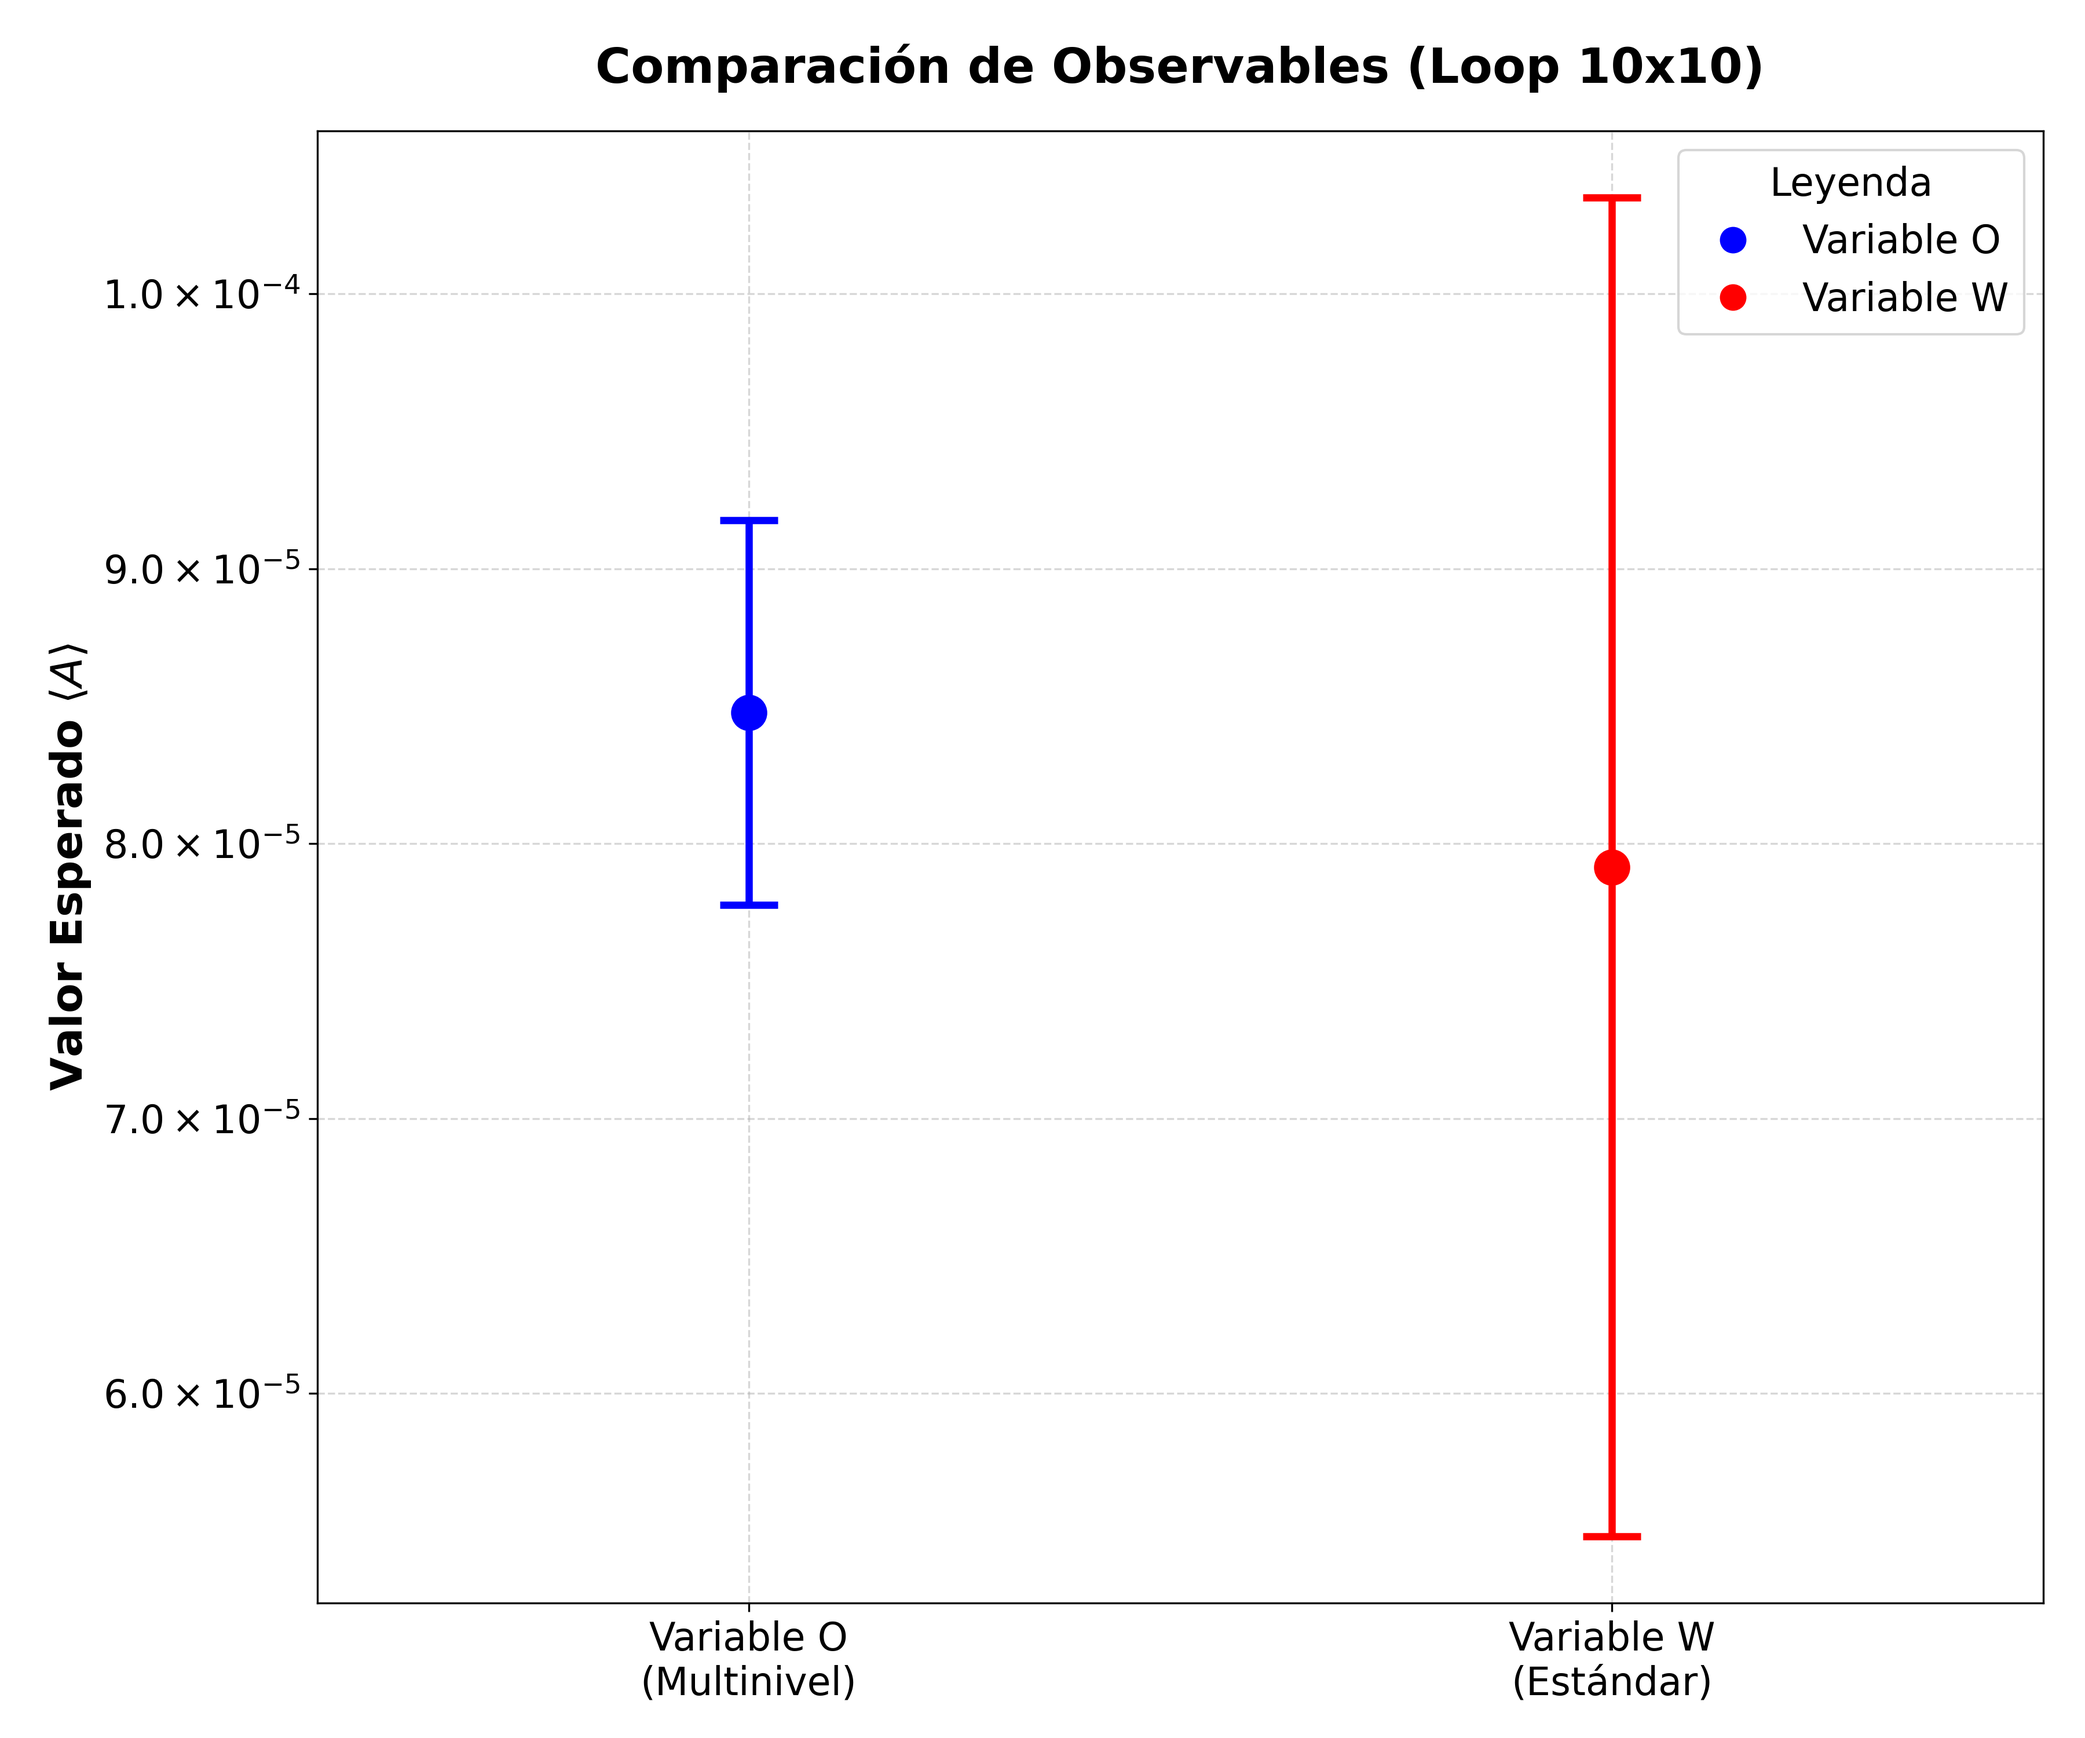
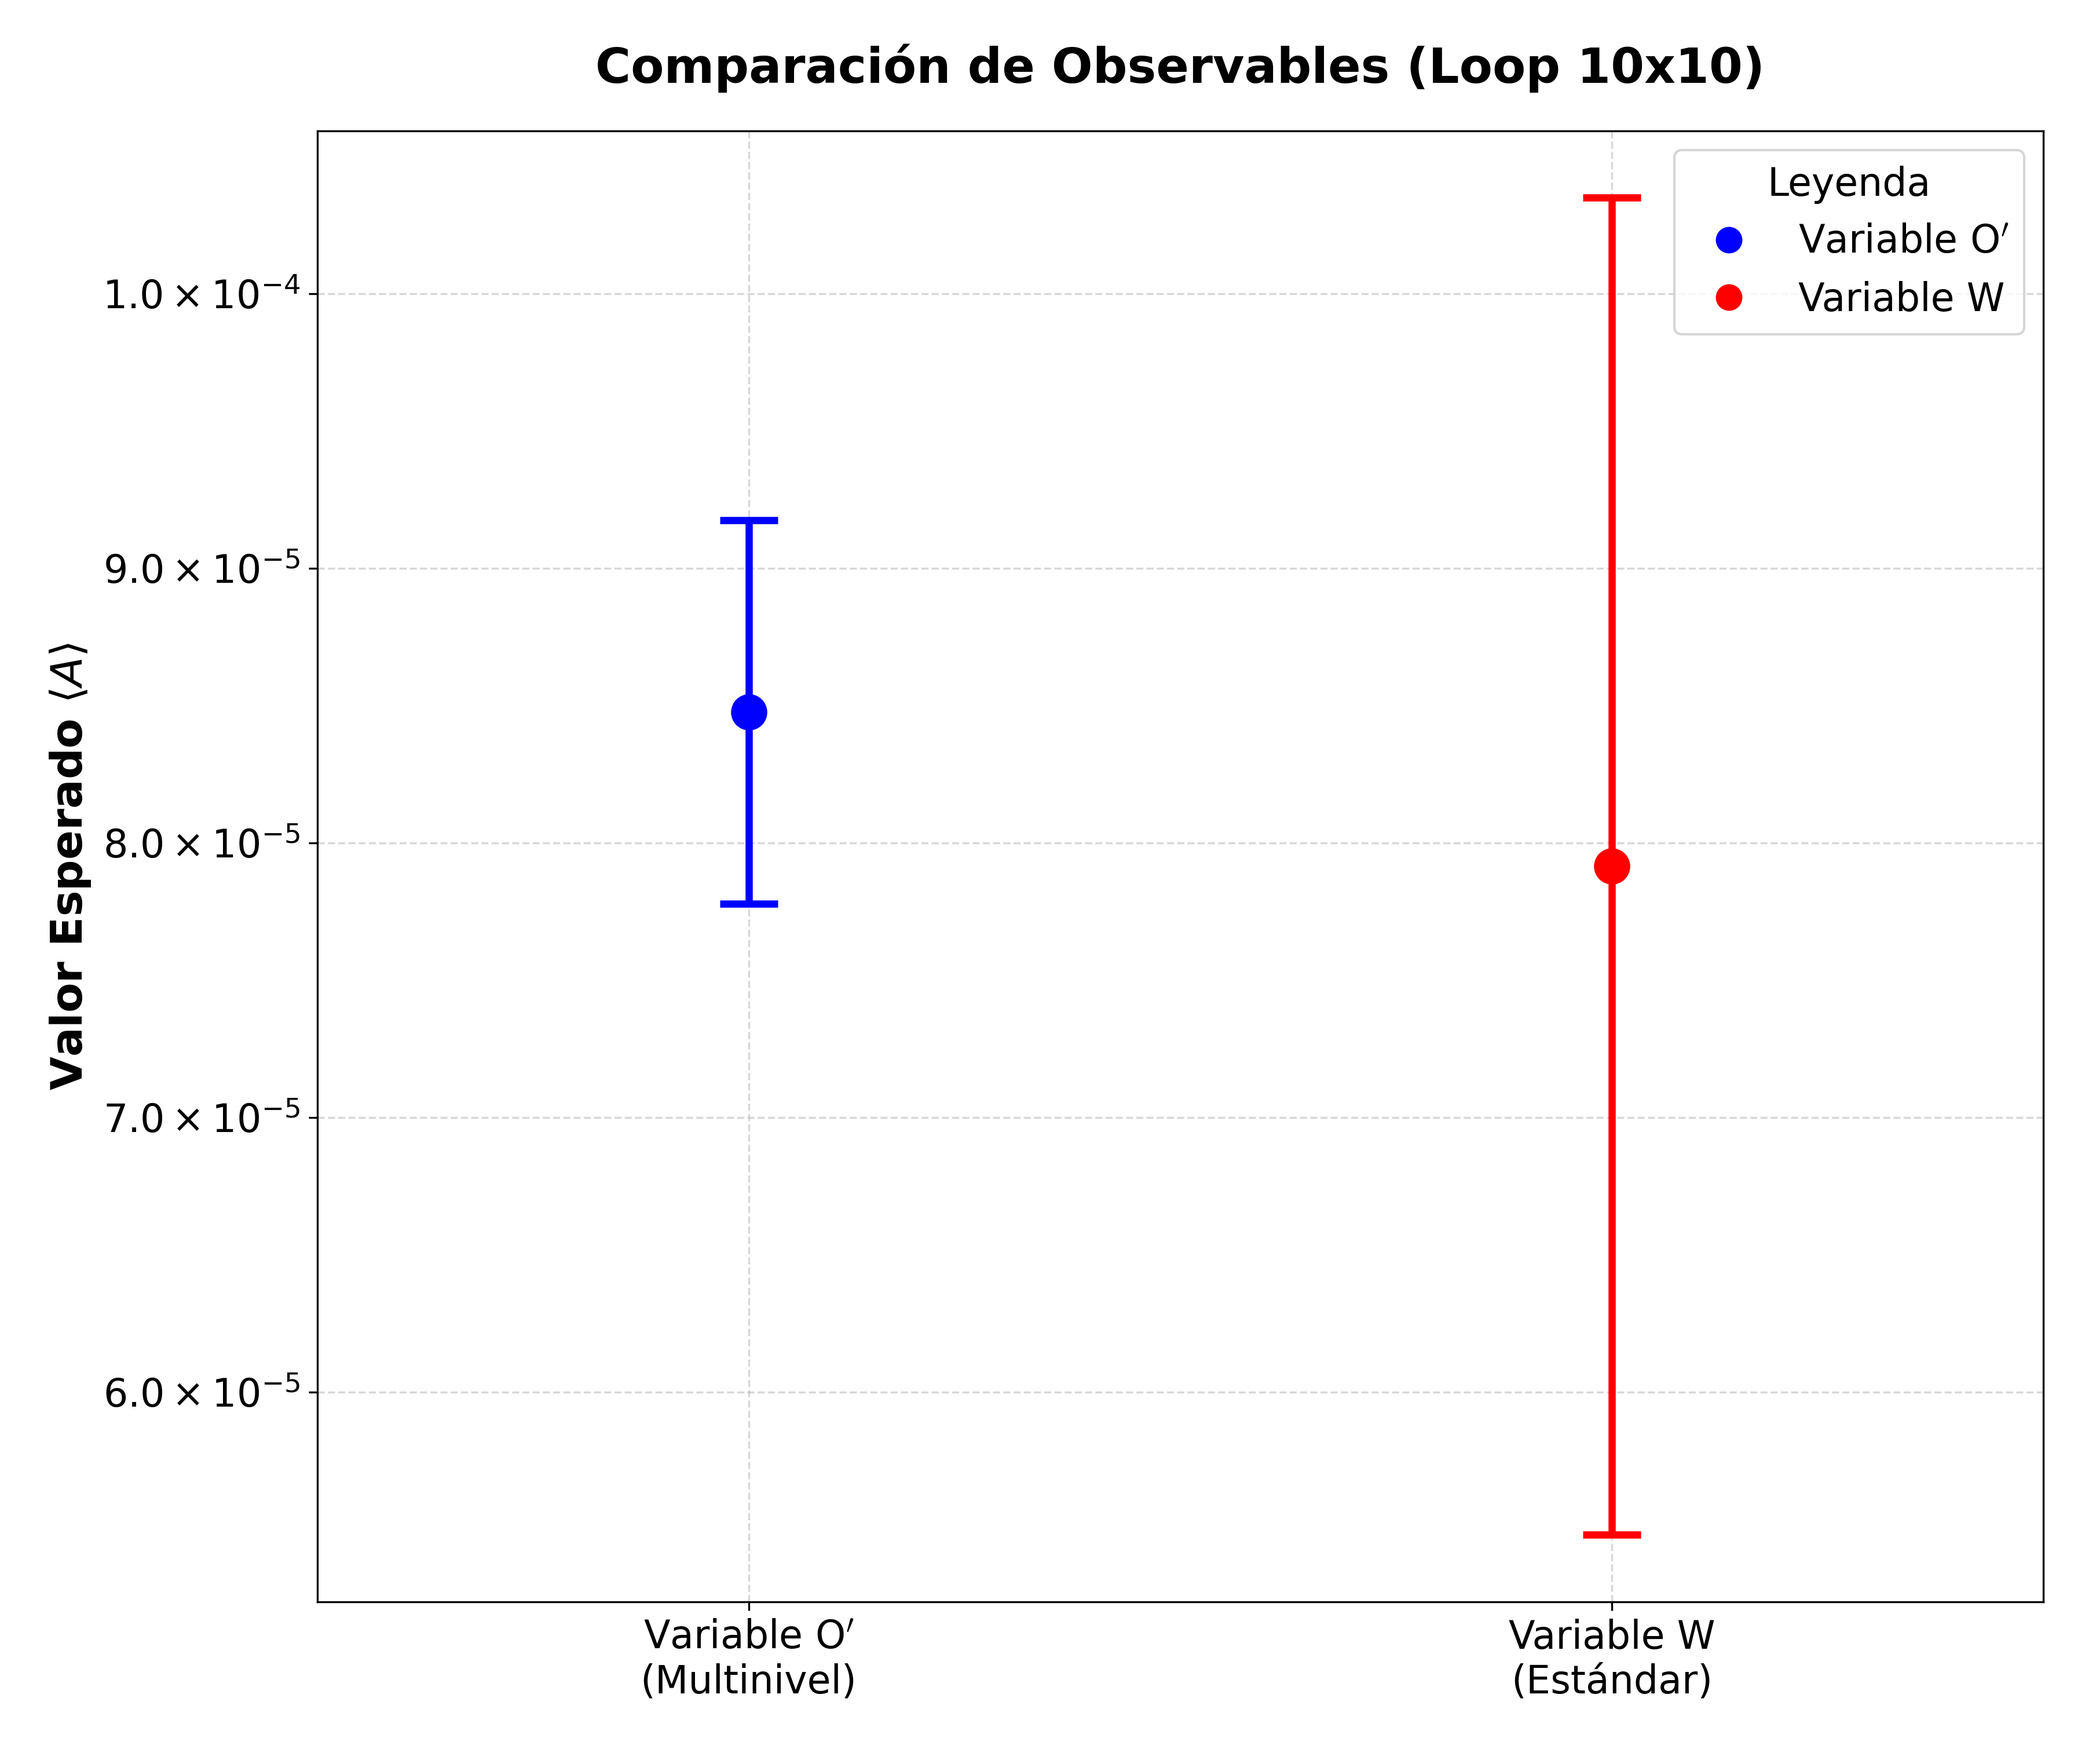
O'

Changed region(s): [[0.84, 0.093, 0.9644, 0.186], [0.7156, 0.93, 0.8089, 0.992], [0.3111, 0.93, 0.4044, 0.961]]

diff --git a/Codigo_en_Python_para_graficas/comparacion_O_W.py b/Codigo_en_Python_para_graficas/comparacion_O_W.py
@@ -44,7 +44,7 @@ try:
 
     # Eje X
     ax1.set_xticks([0, 1])
-    ax1.set_xticklabels(['Variable O\n(Multinivel)', 'Variable W\n(Estándar)'])
+    ax1.set_xticklabels(['Variable O$\'$\n(Multinivel)', 'Variable W\n(Estándar)'])
     ax1.set_xlim(-0.5, 1.5)
 
     # Formateador personalizado para Eje Y
@@ -66,7 +66,7 @@ try:
     
     # Leyenda
     legend_elements = [
-        Line2D([0], [0], marker='o', color='w', label='Variable O', 
+        Line2D([0], [0], marker='o', color='w', label='Variable O$\'$', 
                markerfacecolor='blue', markersize=12),
         Line2D([0], [0], marker='o', color='w', label='Variable W', 
                markerfacecolor='red', markersize=12)
